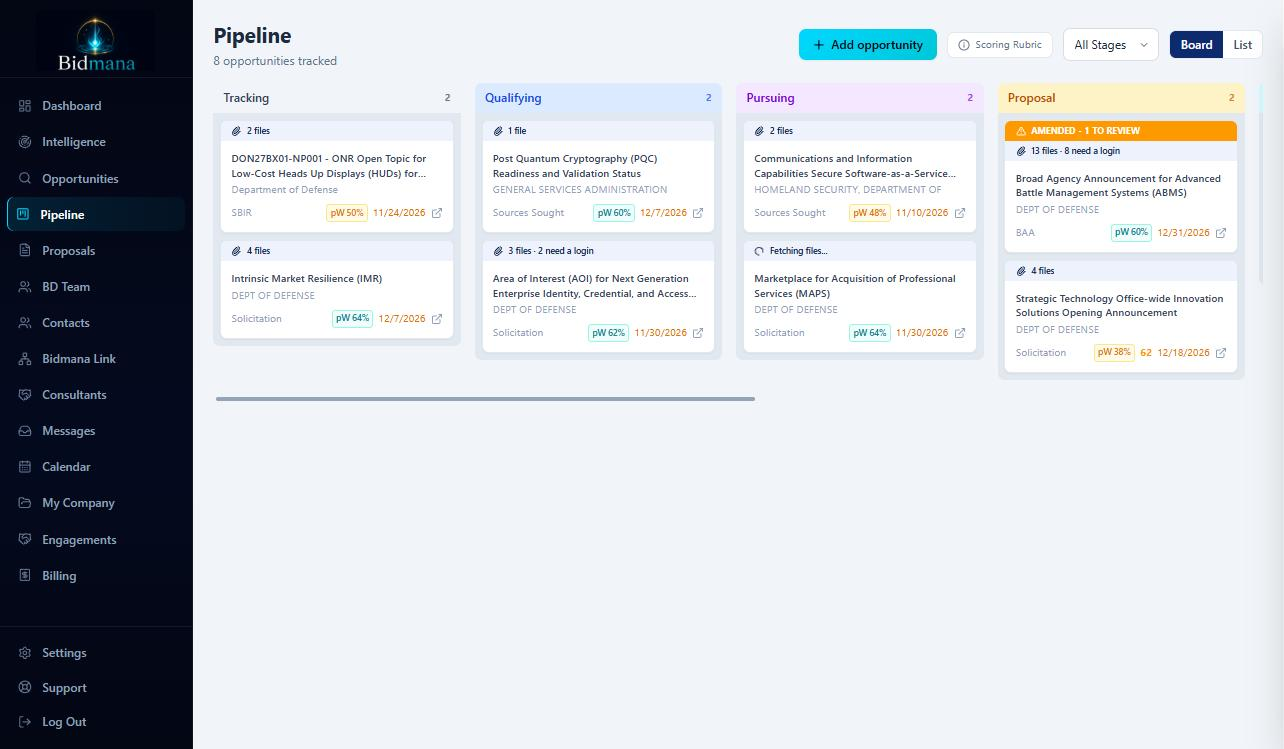
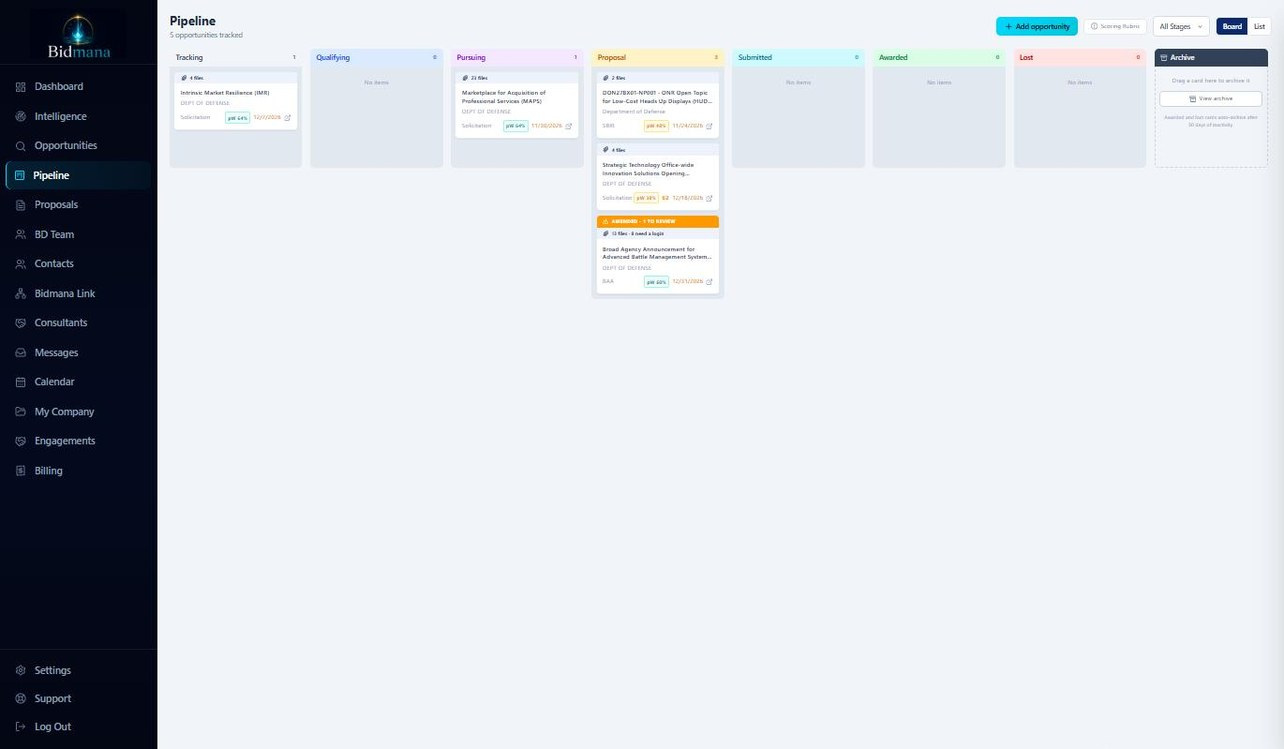
Showcase: pipeline screenshot shows every stage column, nothing cut off

diff --git a/index.html b/index.html
@@ -100,7 +100,7 @@
             <img src="assets/showcase/opportunities.jpg?v=20261116b" alt="Opportunity search results with fit scores, estimated values, due dates and one-click add to pipeline" loading="lazy" width="1284" height="749" />
           </figure>
           <figure class="shot-screen" id="shot-pipeline" role="tabpanel" aria-labelledby="tab-pipeline" hidden>
-            <img src="assets/showcase/pipeline.jpg" alt="The pipeline board: pursuits moving from Tracking through Qualifying and Pursuing to Proposal, each with its files, win probability and due date" loading="lazy" width="1284" height="749" />
+            <img src="assets/showcase/pipeline.jpg?v=20261116" alt="The pipeline board with every stage on one screen, from Tracking through Proposal and Submitted to Awarded and Lost, each pursuit with its files, win probability and due date" loading="lazy" width="1284" height="749" />
           </figure>
           <figure class="shot-screen" id="shot-proposal" role="tabpanel" aria-labelledby="tab-proposal" hidden>
             <img src="assets/showcase/proposal.jpg?v=20261116e" alt="The proposal workspace: the Word-style editor open on a proposal's cover page, with document status and the AI assistant beside it" loading="lazy" width="1284" height="749" />
